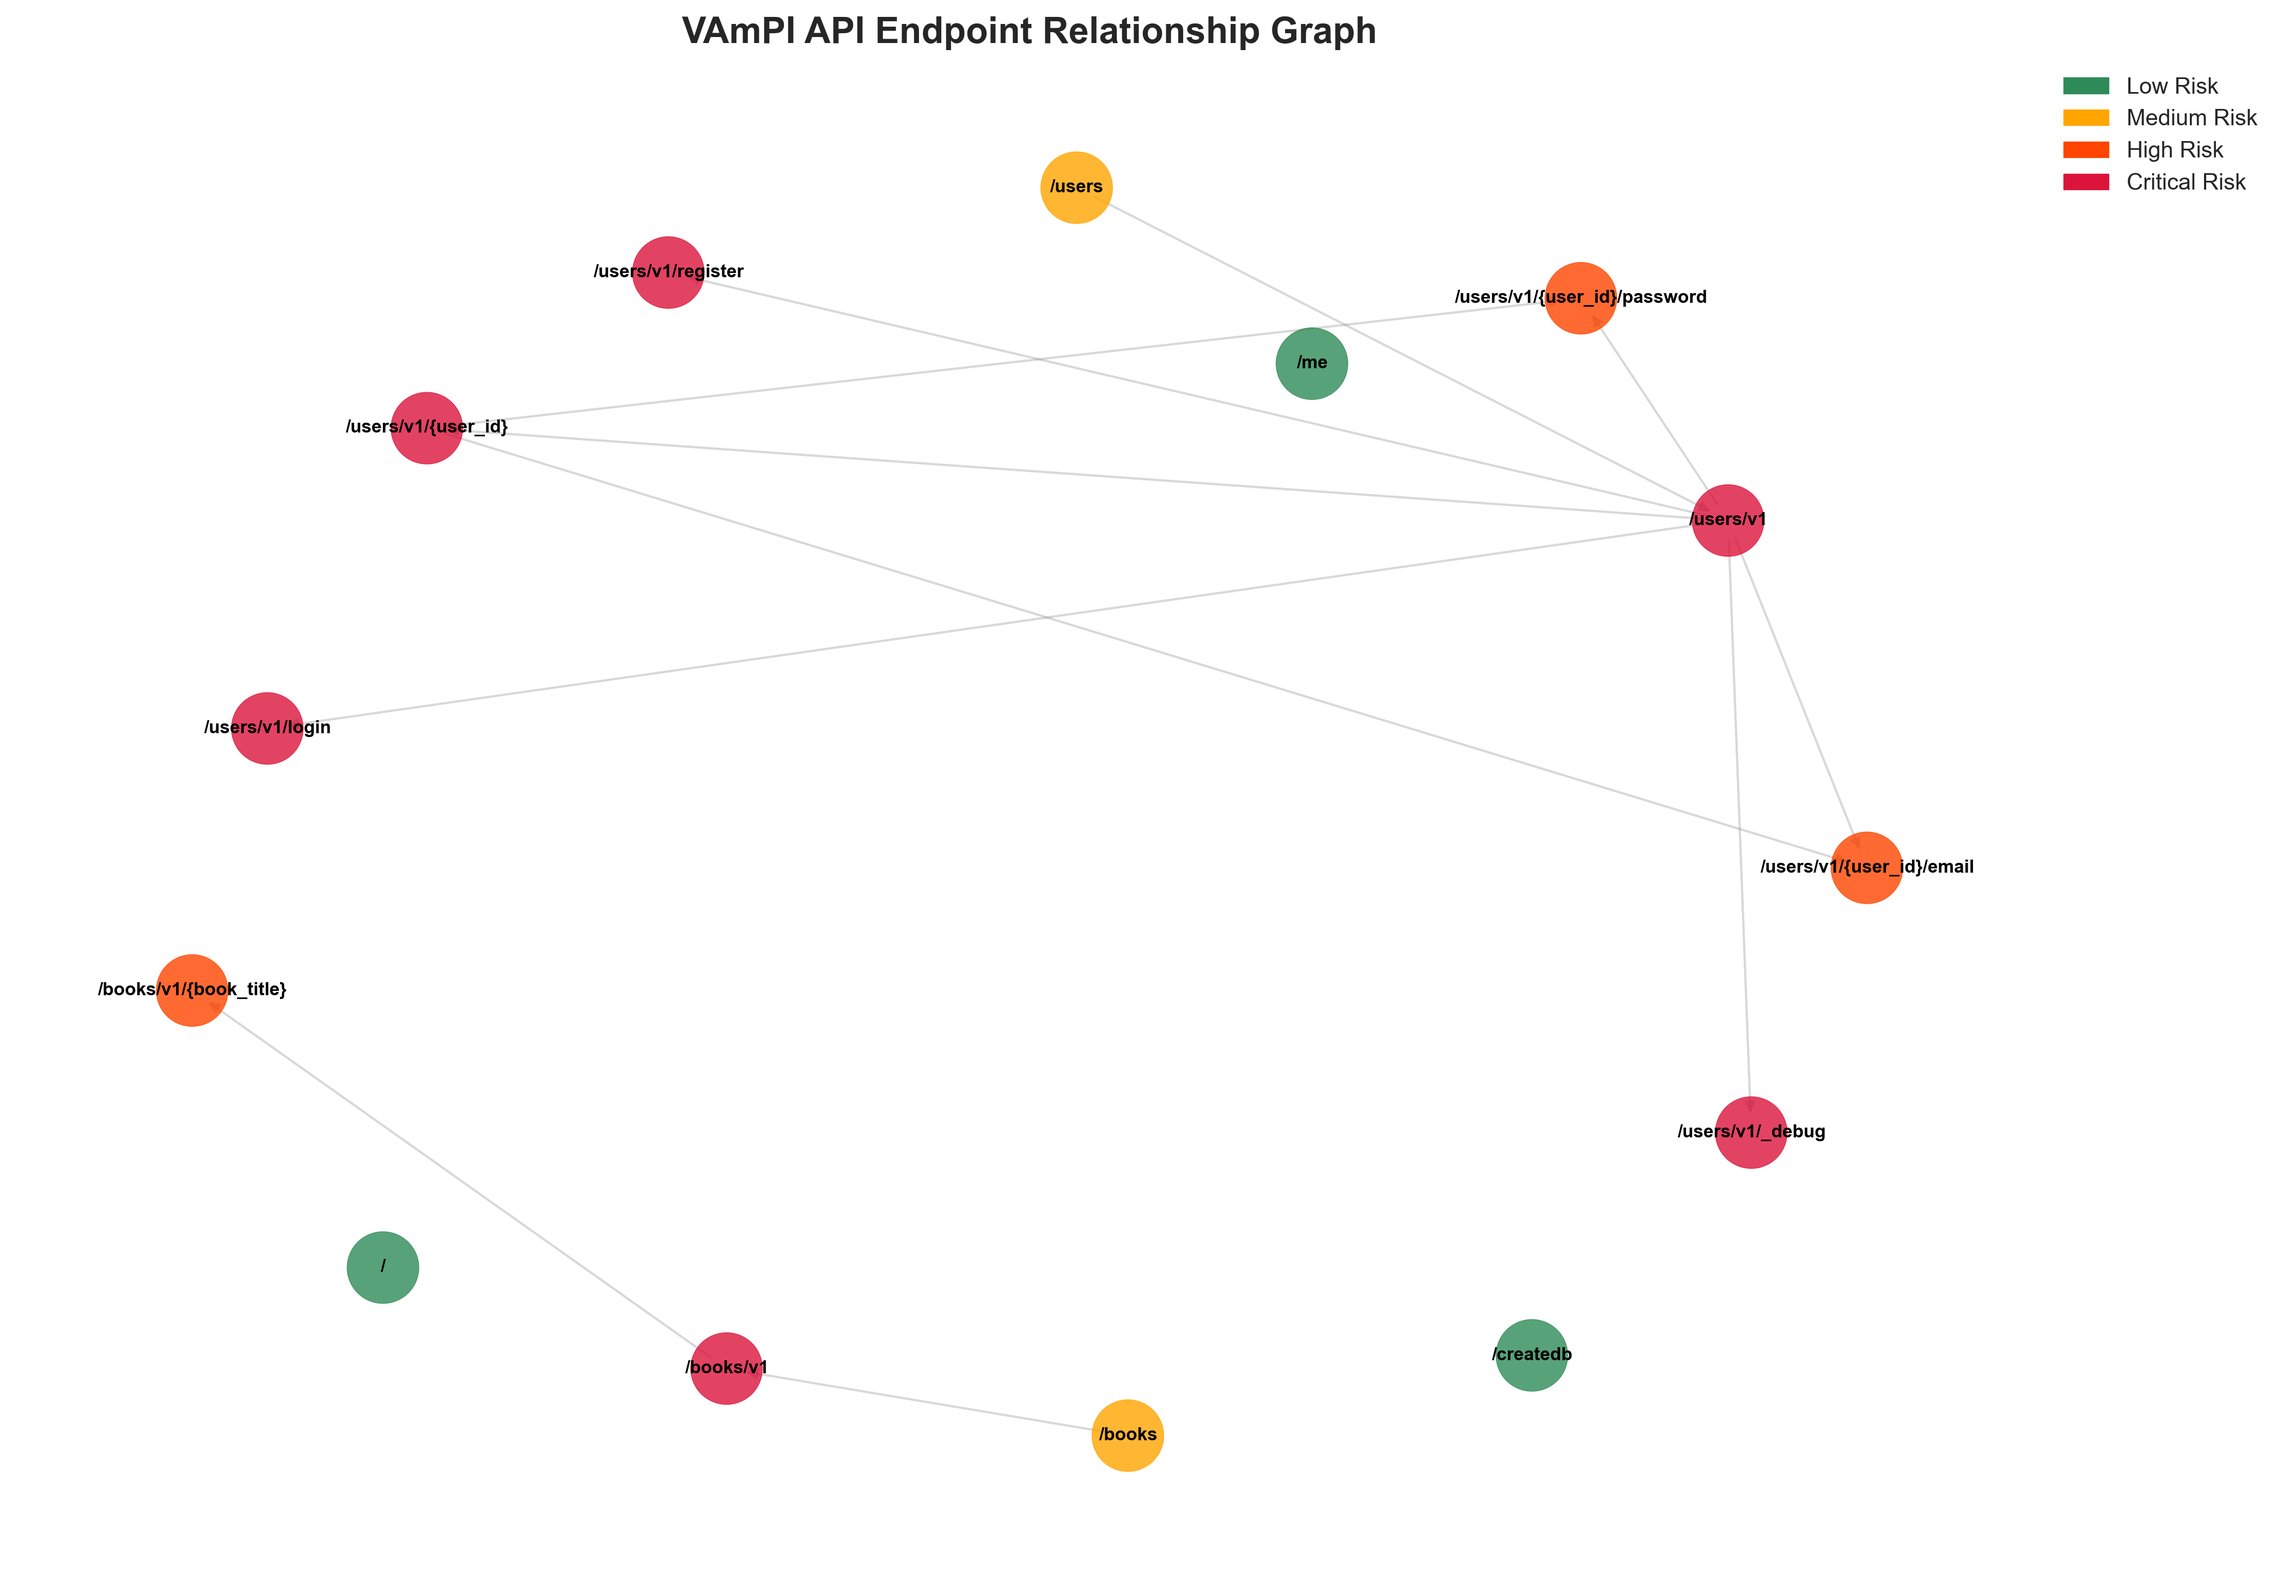
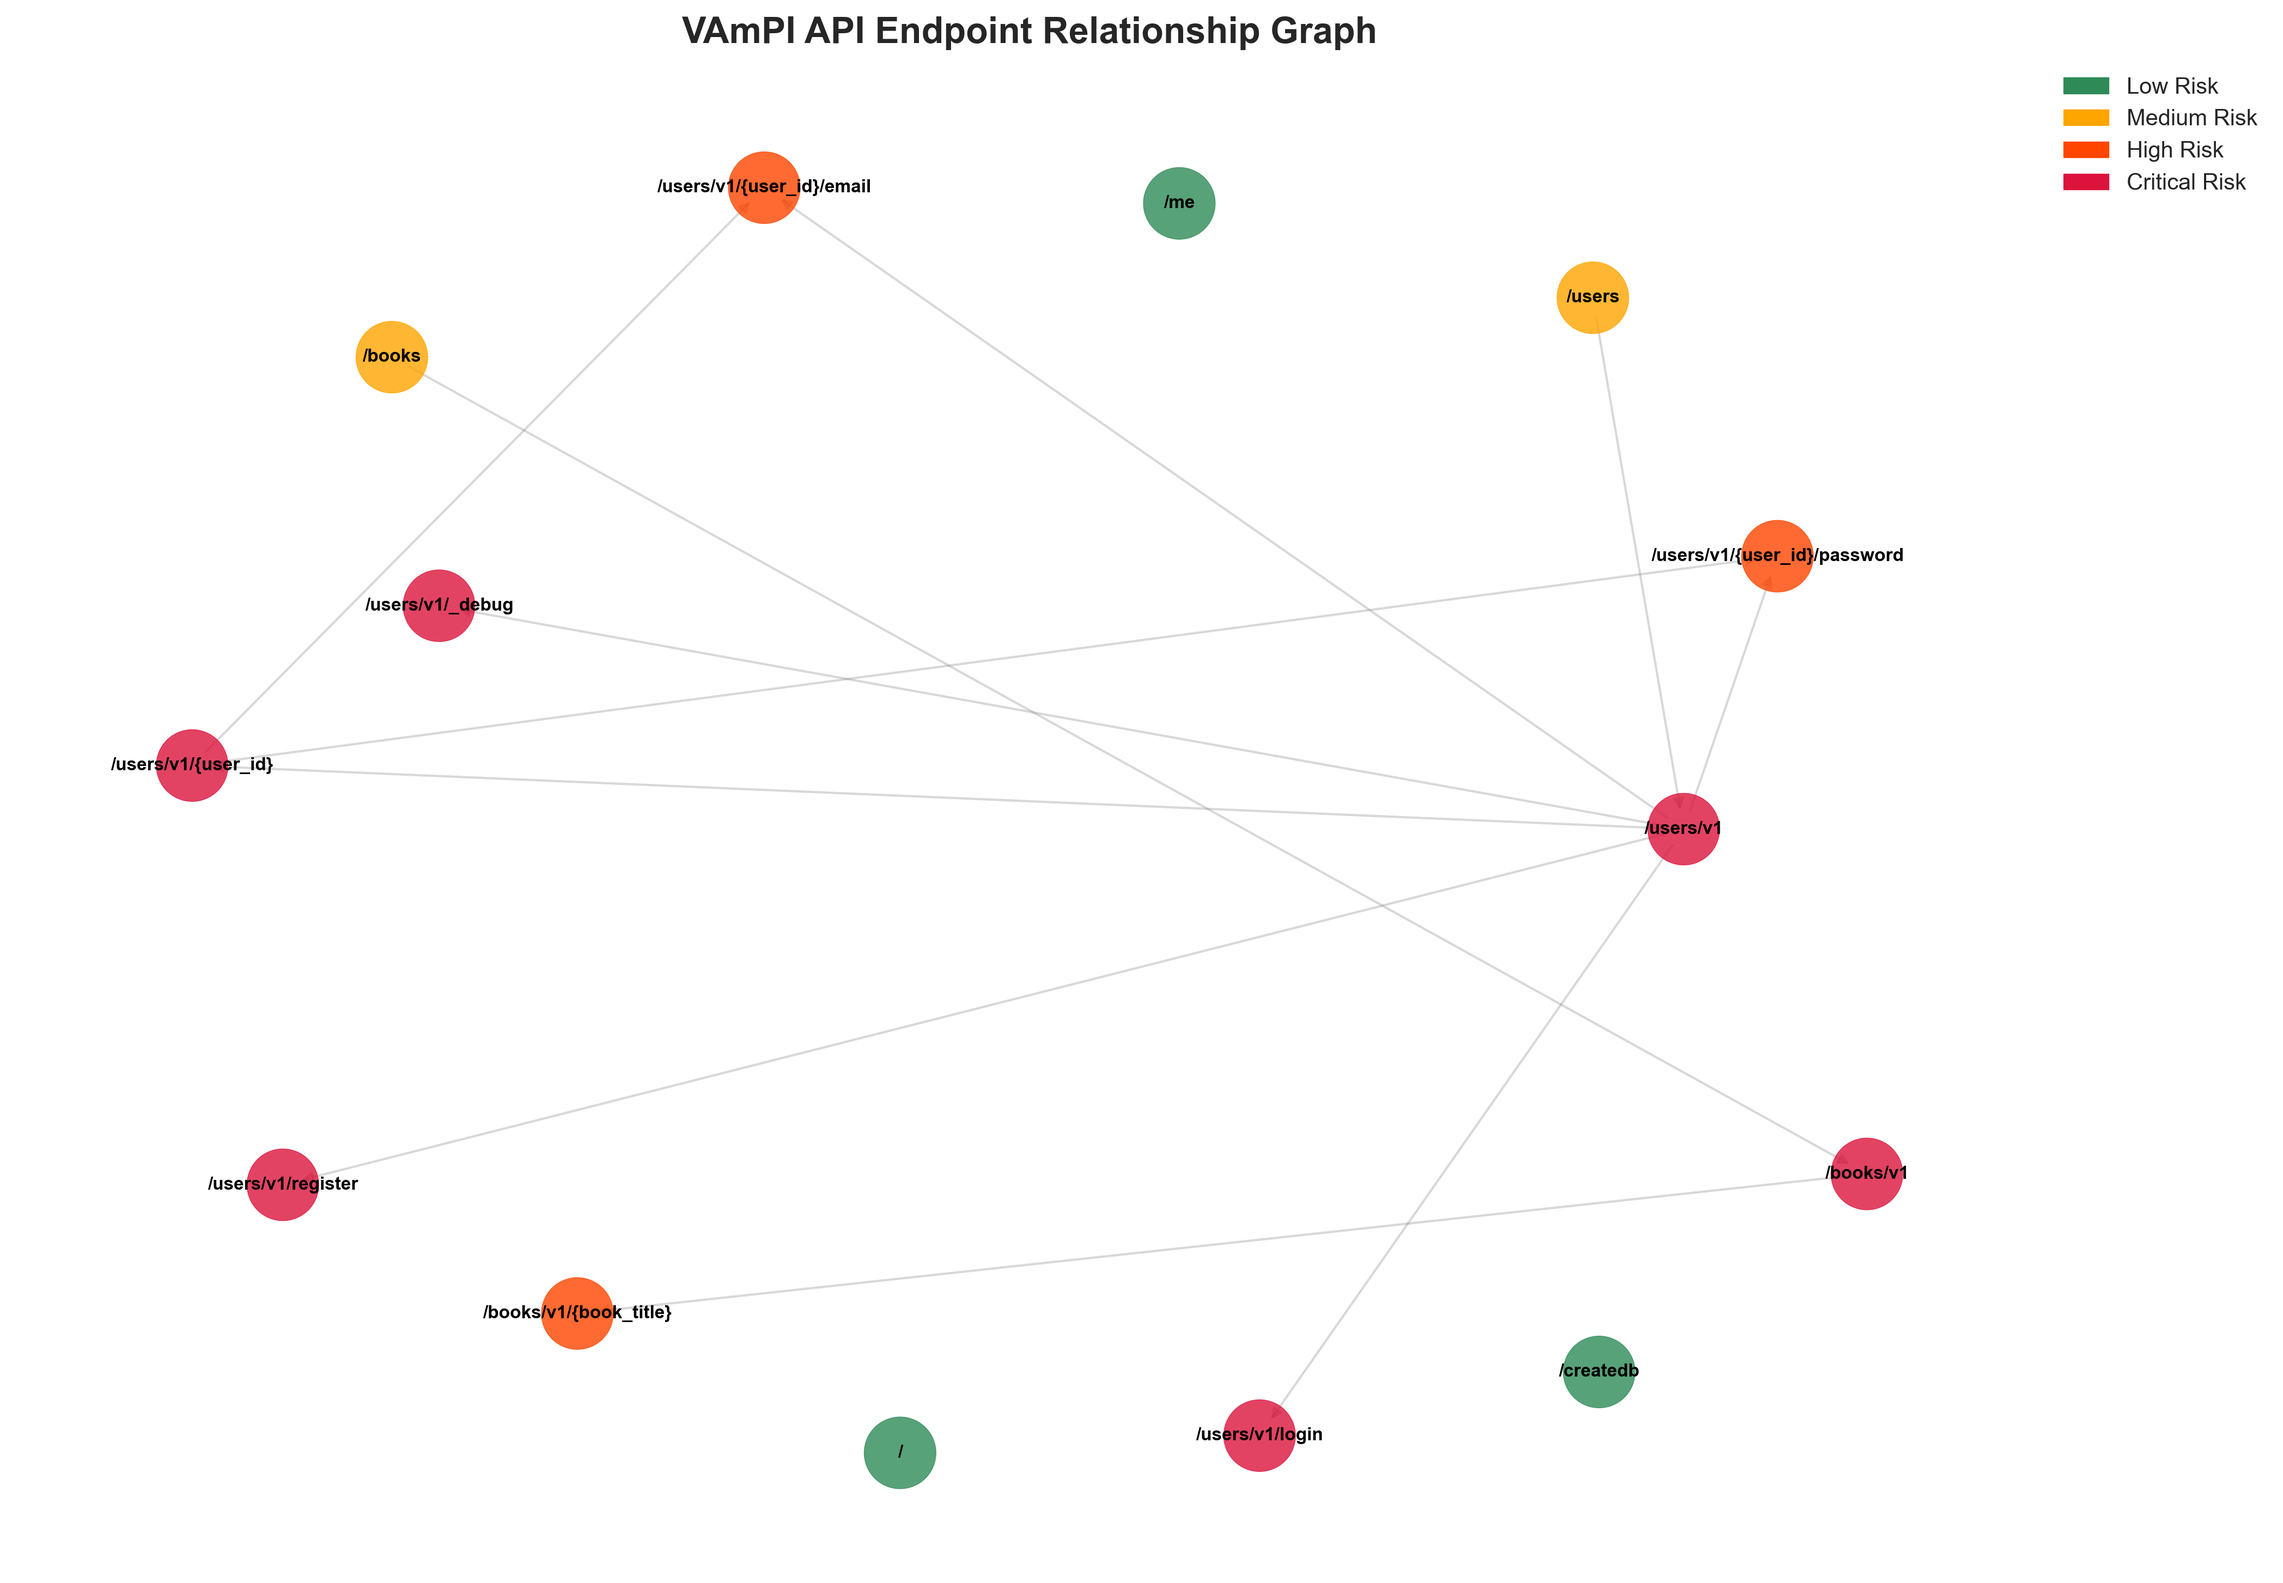
added logs

diff --git a/vampi-api-discovery-agent/discovery_report.md b/vampi-api-discovery-agent/discovery_report.md
@@ -1,6 +1,6 @@
 # VAmPI API Discovery Report
 
-**Generated:** 2025-08-22 23:41:02
+**Generated:** 2025-08-27 14:53:06
 
 ## Configuration
 
